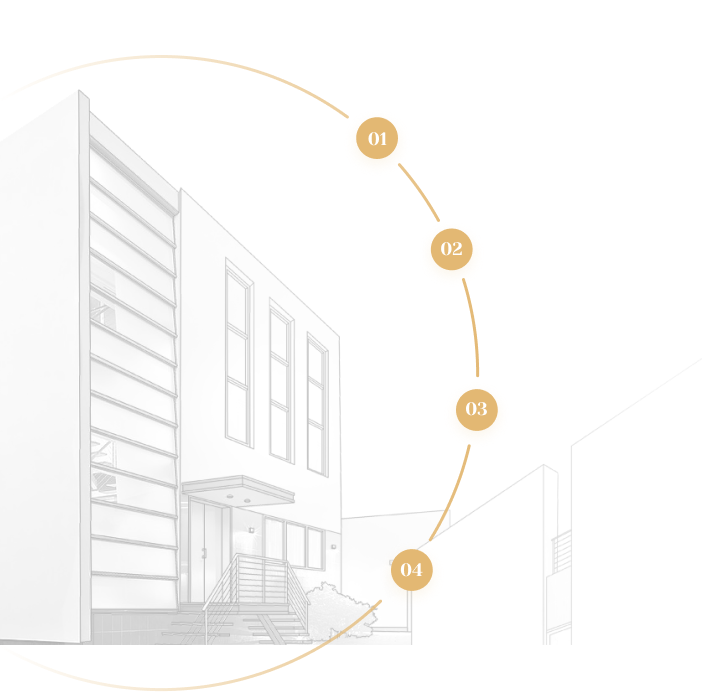
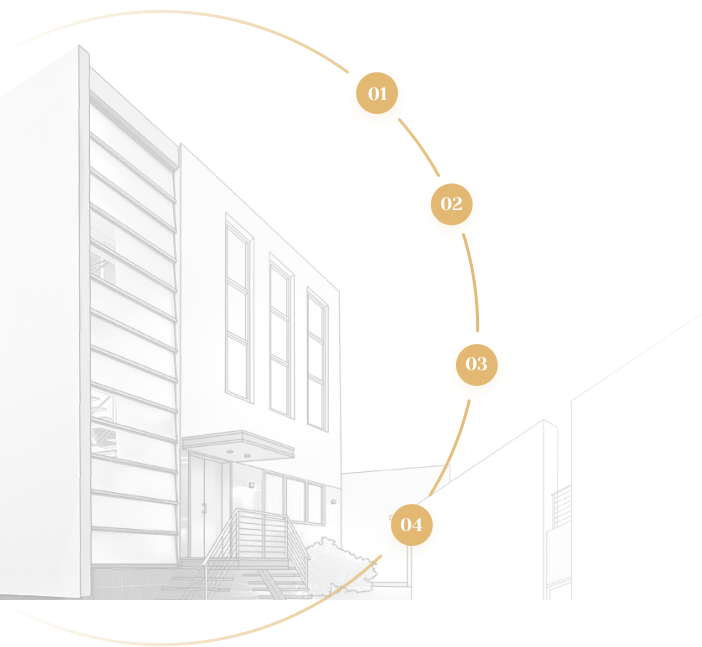
fix: order section positioning

diff --git a/css/style.css b/css/style.css
@@ -916,38 +916,31 @@ img {
     margin-left: -5px; }
 
 .order {
-  background: url(../img/order/bg-house.png) no-repeat left, url(../img/order/order-circle.svg) no-repeat left;
+  background: url(../img/order/bg-order.png) no-repeat left;
   position: relative;
   margin-top: 140px; }
   .order__step {
     position: absolute;
-    display: flex;
-    align-items: center; }
-    .order__step-number {
-      height: 42px;
-      width: 42px; }
+    display: flex; }
     .order__step--01 {
-      top: 125px;
-      left: 345px; }
+      top: 137px;
+      left: 415px;
+      max-width: 26rem; }
     .order__step--02 {
-      top: 237px;
-      left: 425px; }
+      top: 258px;
+      left: 490px; }
     .order__step--03 {
-      top: 397px;
-      left: 450px; }
+      top: 418px;
+      left: 515px; }
     .order__step--04 {
-      top: 560px;
-      left: 380px; }
+      top: 570px;
+      left: 450px;
+      max-width: 21rem; }
   .order__text {
-    margin-left: 1.1rem;
     font-style: normal;
     font-weight: 600;
     font-size: 1.285rem;
     line-height: 1.5rem; }
-    .order__text--01 {
-      max-width: 26rem; }
-    .order__text--04 {
-      max-width: 18.28rem; }
   .order__dialog {
     position: relative;
     max-width: 36.36rem;
@@ -1595,29 +1588,25 @@ img {
 
 @media screen and (max-width: 1300px) {
   .order__step {
-    max-width: 25.57rem; } }
-
-@media screen and (max-width: 1230px) {
-  .order__step--03 {
-    max-width: 15rem; } }
+    max-width: 20.57rem; } }
 
 @media screen and (max-width: 1200px) {
   .order {
     background-position: -200px center; }
     .order__step {
-      max-width: 30rem; }
+      max-width: 26rem; }
       .order__step--01 {
-        top: 88px;
-        left: 145px; }
+        top: 96px;
+        left: 215px; }
       .order__step--02 {
-        top: 195px;
-        left: 225px; }
+        top: 215px;
+        left: 290px; }
       .order__step--03 {
-        top: 355px;
-        left: 250px; }
+        top: 376px;
+        left: 315px; }
       .order__step--04 {
-        top: 520px;
-        left: 180px; } }
+        top: 530px;
+        left: 250px; } }
 
 @media screen and (max-width: 992px) {
   .order {

diff --git a/index.html b/index.html
@@ -374,21 +374,17 @@
           <div class="col-60 order__col-60">
             <div class="order__wrap">
               <div class="order__step order__step--01">
-                <img class="order__step-number" src="img/order/frame-1.png" alt="step-01">
-                <strong class="order__text order__text--01">Наш специалист приедет для замеров в день контакта или
+                <strong class="order__text">Наш специалист приедет для замеров в день контакта или
                   назначит удобную для вас дату</strong>
               </div>
               <div class="order__step order__step--02">
-                <img class="order__step-number" src="img/order/frame-2.png" alt="step-02">
-                <strong class="order__text order__text--02">Бесплатный замер</strong>
+                <strong class="order__text">Бесплатный замер</strong>
               </div>
               <div class="order__step order__step--03">
-                <img class="order__step-number" src="img/order/frame-3.png" alt="step-03">
-                <strong class="order__text order__text--03">Бесплатная консультация</strong>
+                <strong class="order__text">Бесплатная консультация</strong>
               </div>
               <div class="order__step order__step--04">
-                <img class="order__step-number" src="img/order/frame-4.png" alt="step-04">
-                <strong class="order__text order__text--04">Получите смету расходов и сроки вашего будущего ремонта</strong>
+                <strong class="order__text">Получите смету расходов и сроки вашего будущего ремонта</strong>
               </div>
             </div>
           </div>

diff --git a/sass/templates/_order.sass b/sass/templates/_order.sass
@@ -1,5 +1,5 @@
 .order
-  background: url(../img/order/bg-house.png) no-repeat left, url(../img/order/order-circle.svg) no-repeat left
+  background: url(../img/order/bg-order.png) no-repeat left
   position: relative
   margin-top: 140px
   &__wrap
@@ -7,32 +7,25 @@
   &__step
     position: absolute
     display: flex
-    align-items: center
-    &-number
-      height: 42px
-      width: 42px
     &--01
-      top: 125px
-      left: 345px
+      top: 137px
+      left: 415px
+      max-width: 26rem
     &--02
-      top: 237px
-      left: 425px
+      top: 258px
+      left: 490px
     &--03
-      top: 397px
-      left: 450px
+      top: 418px
+      left: 515px
     &--04
-      top: 560px
-      left: 380px
+      top: 570px
+      left: 450px
+      max-width: 21rem
   &__text
-    margin-left: 1.1rem
     font-style: normal
     font-weight: 600
     font-size: 1.285rem
     line-height: 1.5rem
-    &--01
-      max-width: 26rem
-    &--04
-      max-width: 18.28rem
 
   &__dialog
     position: relative

diff --git a/sass/_media.sass b/sass/_media.sass
@@ -156,29 +156,29 @@
 @media screen and ( max-width: 1300px )
   .order
     &__step
-      max-width: 25.57rem
-@media screen and ( max-width: 1230px )
-  .order
-    &__step
-      &--03
-        max-width: 15rem
+      max-width: 20.57rem
+// @media screen and ( max-width: 1230px )
+  // .order
+  //   &__step
+  //     &--03
+  //       max-width: 15rem
 @media screen and ( max-width: 1200px )
   .order
     background-position: -200px center
     &__step
-      max-width: 30rem
+      max-width: 26rem
       &--01
-        top: 88px
-        left: 145px
+        top: 96px
+        left: 215px
       &--02
-        top: 195px
-        left: 225px
+        top: 215px
+        left: 290px
       &--03
-        top: 355px
-        left: 250px
+        top: 376px
+        left: 315px
       &--04
-        top: 520px
-        left: 180px
+        top: 530px
+        left: 250px
 @media screen and ( max-width: 992px )
   .order
     display: none
